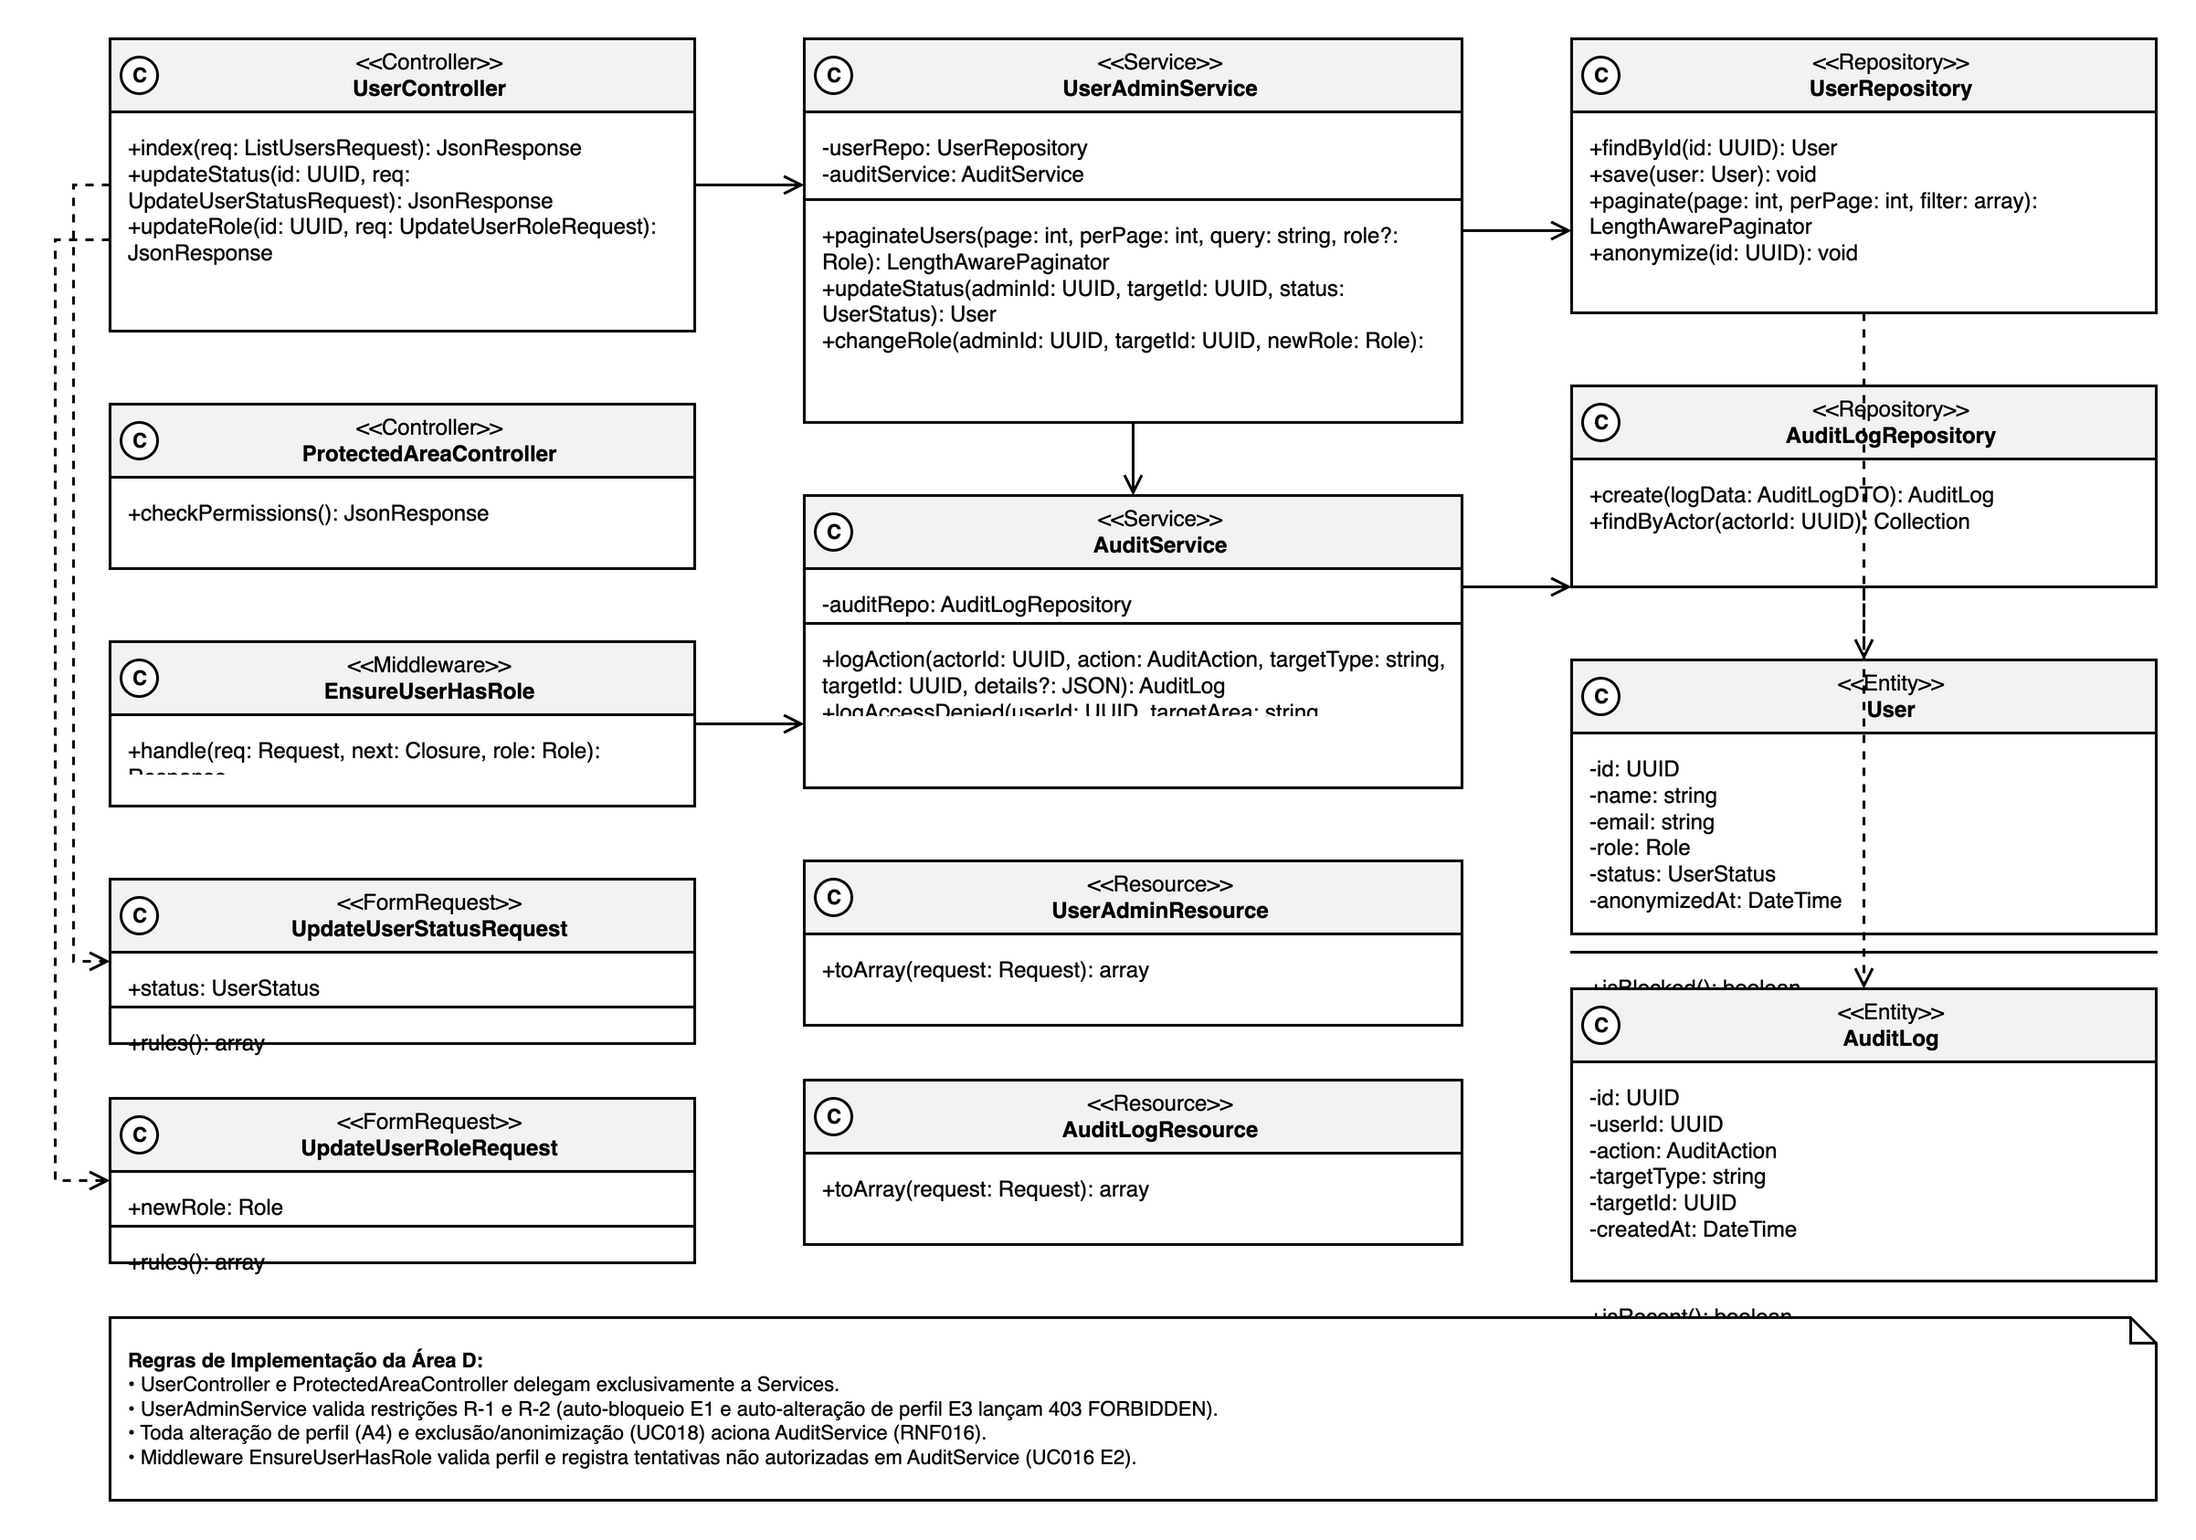
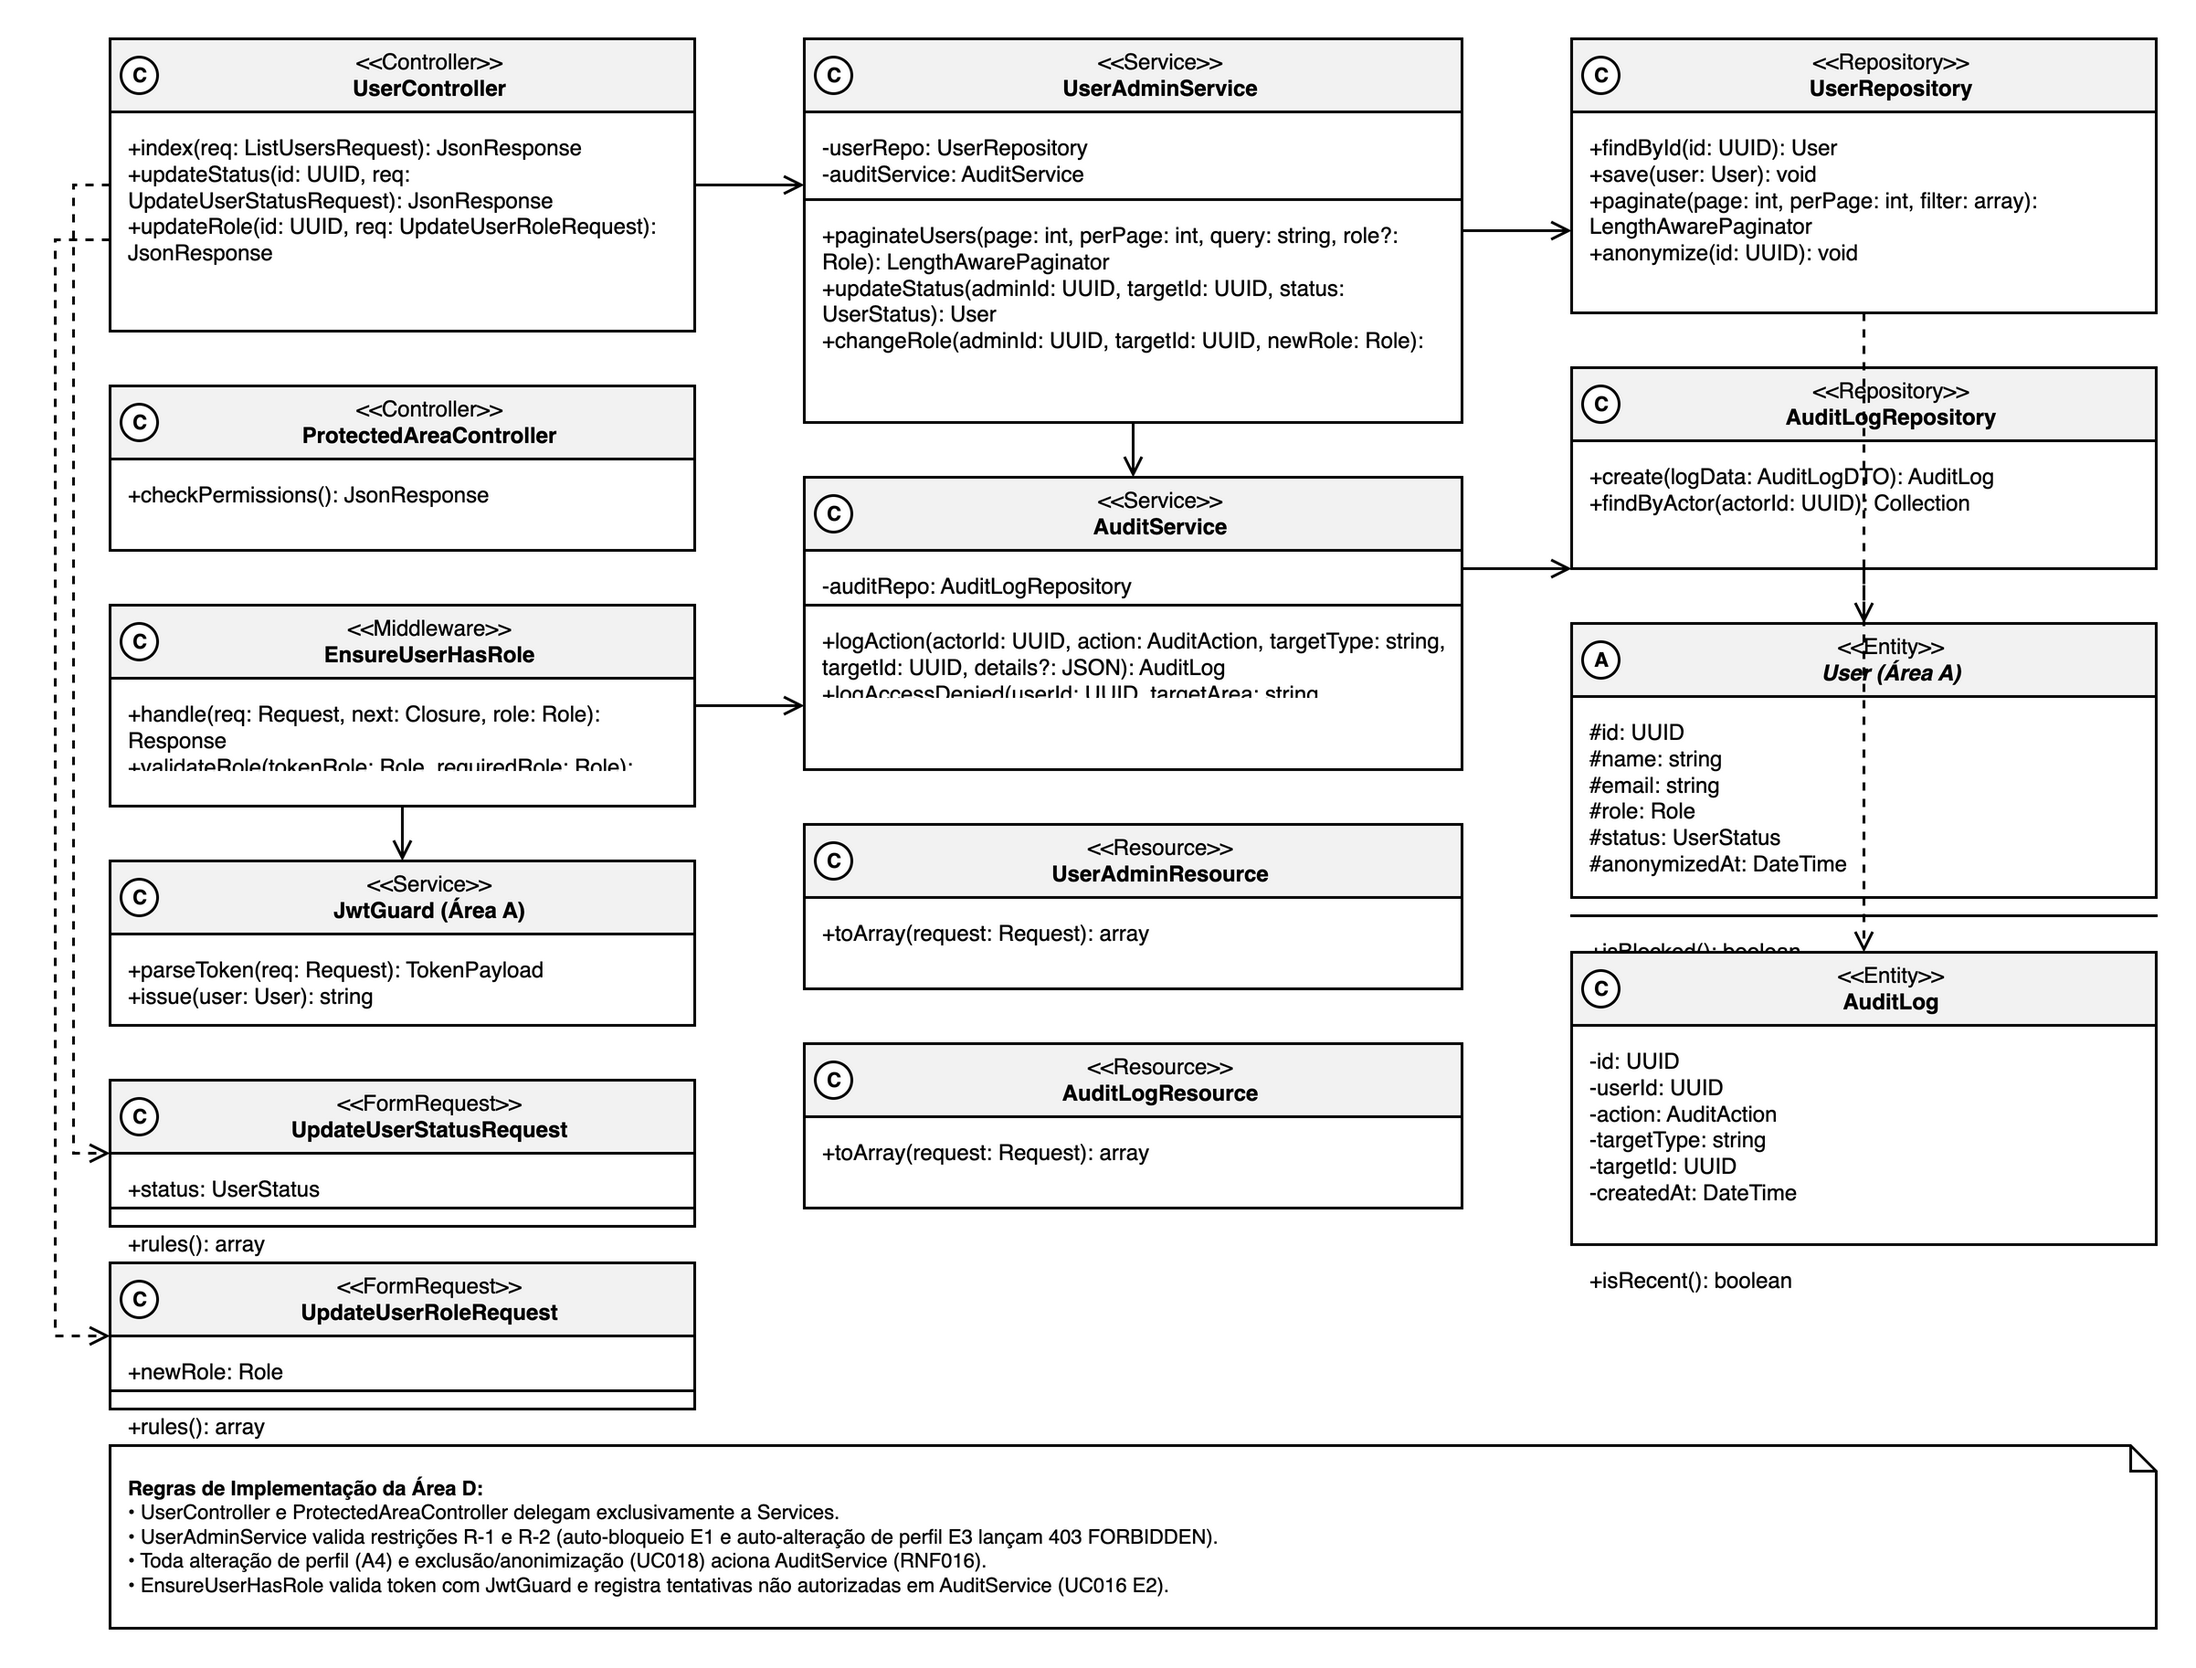
fix(classes): update negocial and implementation class diagrams for Area D
Address review findings in item 13:
- Associate AuditLog with User (1 to 0..*) as actor rather than only Administrator.
- Add Instructor with viewDashboard (UC007) in the business class diagram.
- Keep User (Área A) as abstract entity in implementation diagram.
- Include JwtGuard (Área A) and EnsureUserHasRole.validateRole in implementation diagram.
- Align AuditLog.targetId to UUID.
- Regenerate draw.io diagrams and export PNGs with type icons.

Refs #99

diff --git a/especificacao/13-diagrama-de-classes/area-d.md b/especificacao/13-diagrama-de-classes/area-d.md
@@ -1,11 +1,11 @@
 ## 4. Área D – Tutor de IA, analytics e administração
 
-Classes dos casos de uso UC001, UC007, UC008, UC016 e UC018, estruturadas sob as perspectivas negocial e técnica de implementação. Na perspectiva negocial, `Administrator` é subclasse especializada de `User` (ator do item 5 e generalização da Área A) e possui as operações de governança: `blockUser`, `unblockUser`, `changeUserRole`, `deleteAndAnonymize` e `viewDashboard`. O modelo reflete expressamente as regras de negócio em que o Administrador não pode alterar o próprio perfil nem bloquear a própria conta (UC008 R-1, R-2, E1 e E3). A interação com o assistente pedagógico é modelada por `Conversation`, que se associa aos tipos fortes `Student`, `Course` e `Lesson`, contendo uma composição de instâncias de `Message` (`1..*`), cada qual associada ao enumerador `MessageRole` (`user` ou `assistant`). As ações administrativas e de segurança geram instâncias de `AuditLog`, tipadas pelo enumerador `AuditAction` (`USER_BLOCK`, `USER_UNBLOCK`, `ROLE_CHANGE`, `USER_DELETE`, `ACCESS_DENIED`), cumprindo o RNF016 com retenção de 12 meses e preservação da privacidade na anonimização conforme a LGPD (UC018 R-4). Em conformidade com o padrão do item 13 (TE5_1), as classes não utilizam identificadores de chaves estrangeiras como atributos primitivos, adotando associações e composições tipadas.
+Classes dos casos de uso UC001, UC007, UC008, UC016 e UC018, estruturadas sob as perspectivas negocial e técnica de implementação. Na perspectiva negocial, `Administrator` e `Instructor` são subclasses especializadas de `User` (ator do item 5 e entidade base da Área A). `Administrator` possui as operações de governança: `blockUser`, `unblockUser`, `changeUserRole`, `deleteAndAnonymize` e `viewDashboard`, refletindo expressamente as regras de negócio em que o Administrador não pode alterar o próprio perfil nem bloquear a própria conta (UC008 R-1, R-2, E1 e E3). `Instructor` possui a operação `viewDashboard`, permitindo a visualização analítica restrita aos seus próprios cursos (UC007 R-2). A interação com o assistente pedagógico é modelada por `Conversation`, que se associa aos tipos fortes `Student`, `Course` e `Lesson`, contendo uma composição de instâncias de `Message` (`1..*`), cada qual associada ao enumerador `MessageRole` (`user` ou `assistant`). As ações administrativas e eventos de segurança geram instâncias de `AuditLog`, associadas ao `User` ator (`1` para `0..*`) e tipadas pelo enumerador `AuditAction` (`USER_BLOCK`, `USER_UNBLOCK`, `ROLE_CHANGE`, `USER_DELETE`, `ACCESS_DENIED`), cumprindo o RNF016 com retenção de 12 meses e preservação da privacidade na anonimização conforme a LGPD (UC018 R-4). Em conformidade com o padrão do item 13 (TE5_1), as classes não utilizam identificadores de chaves estrangeiras como atributos primitivos, adotando associações e composições tipadas.
 
 Na perspectiva de implementação, os componentes são organizados segundo o padrão arquitetural em camadas do monólito modular Laravel (ADR-0007), divididos em dois diagramas dedicados para assegurar legibilidade em página A4:
 
-1. **Administração de usuários, áreas protegidas e auditoria (UC008, UC016 e UC018):** `UserController` e `ProtectedAreaController` recebem requisições HTTP REST validadas por Form Requests (`ListUsersRequest`, `UpdateUserStatusRequest`, `UpdateUserRoleRequest`) e delegam a orquestração negocial aos serviços de domínio. `UserAdminService` executa as validações de autorização e integridade — bloqueando tentativas de auto-bloqueio (E1) e auto-alteração de perfil (E3) com HTTP 403 `FORBIDDEN` —, persiste as alterações cadastrais via `UserRepository` e aciona obrigatoriamente o `AuditService` para registrar toda alteração de perfil (UC008 A4), bloqueio ou exclusão/anonimização (UC018) na tabela `AuditLog` (RNF016). O middleware `EnsureUserHasRole` intercepta o acesso a rotas protegidas (UC016), garantindo a autorização por perfil (RBAC) e acionando o `AuditService` para registrar tentativas não autorizadas (UC016 E2). As respostas saem padronizadas por `UserAdminResource` e `AuditLogResource`.
-2. **Tutor de IA e Analytics (UC001 e UC007):** `TutorController` gerencia as interações de chat e streaming. Ele delega ao `TutorService`, que recupera o histórico paginado por cursor no `MessageRepository`, valida pré-requisitos de matrícula (UC001 E4) e indexação da aula (UC001 E1), e verifica a cota de mensagens do Aluno no Redis via `TutorRateLimiter` (UC001 E2, respondendo HTTP 429 `TOO_MANY_REQUESTS` com `Retry-After`). O streaming em tempo real da resposta RAG (Server-Sent Events em menos de 3s, RNF003) é intermediado pelo `CourseTutorClient`, que consome o microsserviço `ai-service` (PostgreSQL 16 + pgvector) considerando o `User.locale` do usuário (RNF013). Para métricas e relatórios, `DashboardController` recebe parâmetros validados por `DashboardFilterRequest` (`inicio <= fim`) e aciona `DashboardAnalyticsService`, que aplica a regra de isolamento do Instrutor (UC007 R-2, impedindo visualização de cursos de terceiros via HTTP 403 `FORBIDDEN`) e executa consultas analíticas agregadas via `AnalyticsQueryRepository` sobre as tabelas transacionais `Enrollment` e `LessonProgress`, formatando o resultado em `DashboardResource`.
+1. **Administração de usuários, áreas protegidas e auditoria (UC008, UC016 e UC018):** `UserController` e `ProtectedAreaController` recebem requisições HTTP REST validadas por Form Requests (`ListUsersRequest`, `UpdateUserStatusRequest`, `UpdateUserRoleRequest`) e delegam a orquestração negocial aos serviços de domínio. O middleware `EnsureUserHasRole` intercepta o acesso a rotas protegidas (UC016), consumindo `JwtGuard (Área A)` para validar o token JWT e extrair o payload (`parseToken`) e aplicando a checagem de autorização por perfil (`validateRole`), acionando o `AuditService` para registrar tentativas não autorizadas (UC016 E2, gerando `AuditLog` com ação `ACCESS_DENIED` e `targetId: UUID`). `UserAdminService` executa as validações de autorização e integridade — bloqueando tentativas de auto-bloqueio (E1) e auto-alteração de perfil (E3) com HTTP 403 `FORBIDDEN` —, persiste as alterações cadastrais via `UserRepository` sobre a entidade `User (Área A)` e aciona obrigatoriamente o `AuditService` para registrar toda alteração de perfil (UC008 A4), bloqueio ou exclusão/anonimização (UC018) na tabela `AuditLog` (RNF016). As respostas saem padronizadas por `UserAdminResource` e `AuditLogResource`.
+2. **Tutor de IA e Analytics (UC001 e UC007):** `TutorController` gerencia as interações de chat e streaming. Ele delega ao `TutorService`, que recupera o histórico paginado por cursor no `MessageRepository`, valida pré-requisitos de matrícula (UC001 E4) e indexação da aula (UC001 E1), e verifica a cota de mensagens do Aluno no Redis via `TutorRateLimiter` (UC001 E2, respondendo HTTP 429 `TOO_MANY_REQUESTS` com `Retry-After`). O streaming em tempo real da resposta RAG (Server-Sent Events em menos de 3s, RNF003) é intermediado pelo `CourseTutorClient`, que consome o microsserviço `ai-service` (PostgreSQL 16 + pgvector) considerando o `User.locale` do usuário (RNF013). Para métricas e relatórios, `DashboardController` recebe parâmetros validados por `DashboardFilterRequest` (`inicio <= fim`) e aciona `DashboardAnalyticsService`, que aplica a regra de isolamento do Instrutor (UC007 R-2, impedindo visualização de cursos de terceiros via HTTP 403 `FORBIDDEN`) e executa consultas analíticas agregadas via `AnalyticsQueryRepository` (`aggregateProgressAndEnrollments(courseIds, start, end)`) sobre as tabelas transacionais `Enrollment` e `LessonProgress`, formatando o resultado em `DashboardResource`.
 
 ![Classes negociais da Área D](../diagramas/13-classes-area-d-negocial.png)
 
